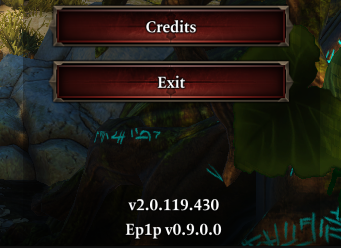
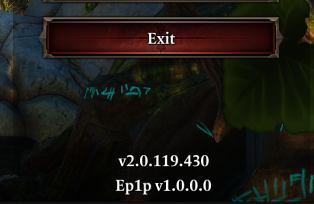
Add v1.0.0.0 patchnotes

diff --git a/docs/docs/index.md b/docs/docs/index.md
@@ -25,7 +25,8 @@ Ep1p features various QoL & UI improvements and fixes, most of them being config
 The health bar UI that appears when hovering over characters has received numerous improvements, mainly to reduce the amount of trips to the examine UI:
 
 - Exact character vitality amounts are now shown.
-- Character resistances are now shown.
+- Character resistances are now shown, as well as armor and physical damage reduction for player characters.
+    - The physical damage reduction shown is against enemies of the same level as the character, like in the character sheet tooltip.
 - Statuses now display in 2 columns, like in DOS2 - making better use of screen space and making them less likely to overflow the screen.
 
 ![Target info UI.](img/features/target_info.png)
@@ -63,9 +64,9 @@ Settings have been added to "share" loremaster and lucky charm scores across the
 There is currently no visual feedback for this.
 
 ### Other features
-- **Auto-identify**: marks items as identified when they're generated.
-- **Unlimited carry weight**: prevents characters from gaining the "overencumbered" status
-- **Unlimited equipment durability**: prevents weapons and armor from losing durability.
+- **Auto-identify**: marks items as identified when they're generated if the party has enough loremaster and an identifying glass, with an option to bypass these requirements.
+- **Unlimited carry weight**: prevents characters from gaining the "overencumbered" status.
+- **Unlimited equipment durability**: prevents weapons and armor from losing durability. Does not affect unrepairable items.
 - Dead party members in Tactician & Honour modes can receive experience.
 - Showing world tooltips for all containers (barrels, crates, etc.)
     - Unfortunately, clicking their tooltips will still cause your character to attempt to pick them up rather than loot them.

diff --git a/docs/docs/patchnotes.md b/docs/docs/patchnotes.md
@@ -1,5 +1,19 @@
 # Patchnotes
 
+## v1.0.0.0 - 31/07/2024
+This patch contains some requested changes to existing features:
+
+- The auto-identify setting has been reworked into a dropdown with 3 modes: "Disabled", "With requirements", and "Always"
+    - "With requirements" will auto-identify items only if any party member has enough loremaster and the party inventory has an identifying glass. The identifying glass must be in the character inventories (not bags).
+    - "Always" works like the previous checkbox
+    - If you had auto-identify enabled before, you must re-configure it
+- Pressing the examine hotkey while hovering over the same character (or no character) will close the examine UI
+- The target healthbar UI now shows armor and its physical damage reduction for player characters, instead of their pierce/slash/crush resistance
+    - The physical damage reduction shown is against enemies of the same level as the character, like in the character sheet tooltip
+- Equipment that is unrepairable is no longer affected by the "Unlimited Equipment Durability" setting
+
+Since no large issues have been found I'm promoting the mod to v1.0 to make it look less scary.
+
 ## v0.9.0.1 - 21/07/2024
 Reuploaded the mod without linking debug libraries so that the `.dll` runs without Visual Studio installed. Epic fail lol.
 

diff --git a/docs/docs/download.md b/docs/docs/download.md
@@ -2,7 +2,7 @@
 !!! info ""
     Only version 2.0.119.430 (Steam release) of the game is supported.
 
-- [Latest version download (v0.9.0.1).](https://drive.google.com/file/d/1k_EnjWN7A-MPyri944bwMtTEKxY77Ibp/view?usp=drive_link)
+- [Latest version download (v1.0.0.0).](https://drive.google.com/file/d/1k8IKS5cNyOsVrTxA67Bi9yQFb0GHX-UJ/view?usp=drive_link)
 - [Patchnotes](patchnotes.md)
 
 Ep1p can be installed or removed at any point alongside any `.pak` mods and does not require starting a new playthrough.
